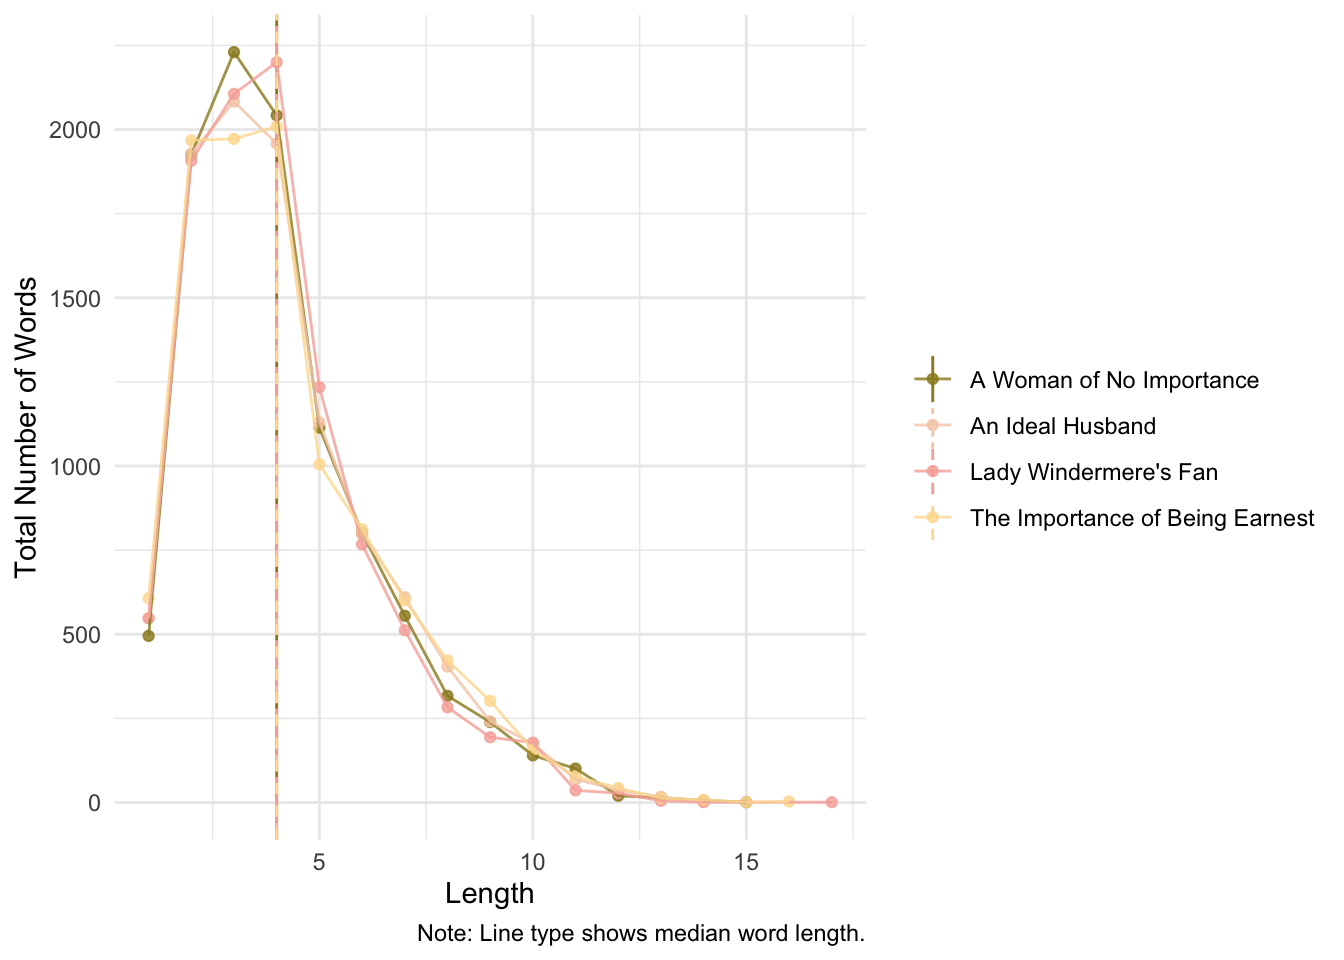
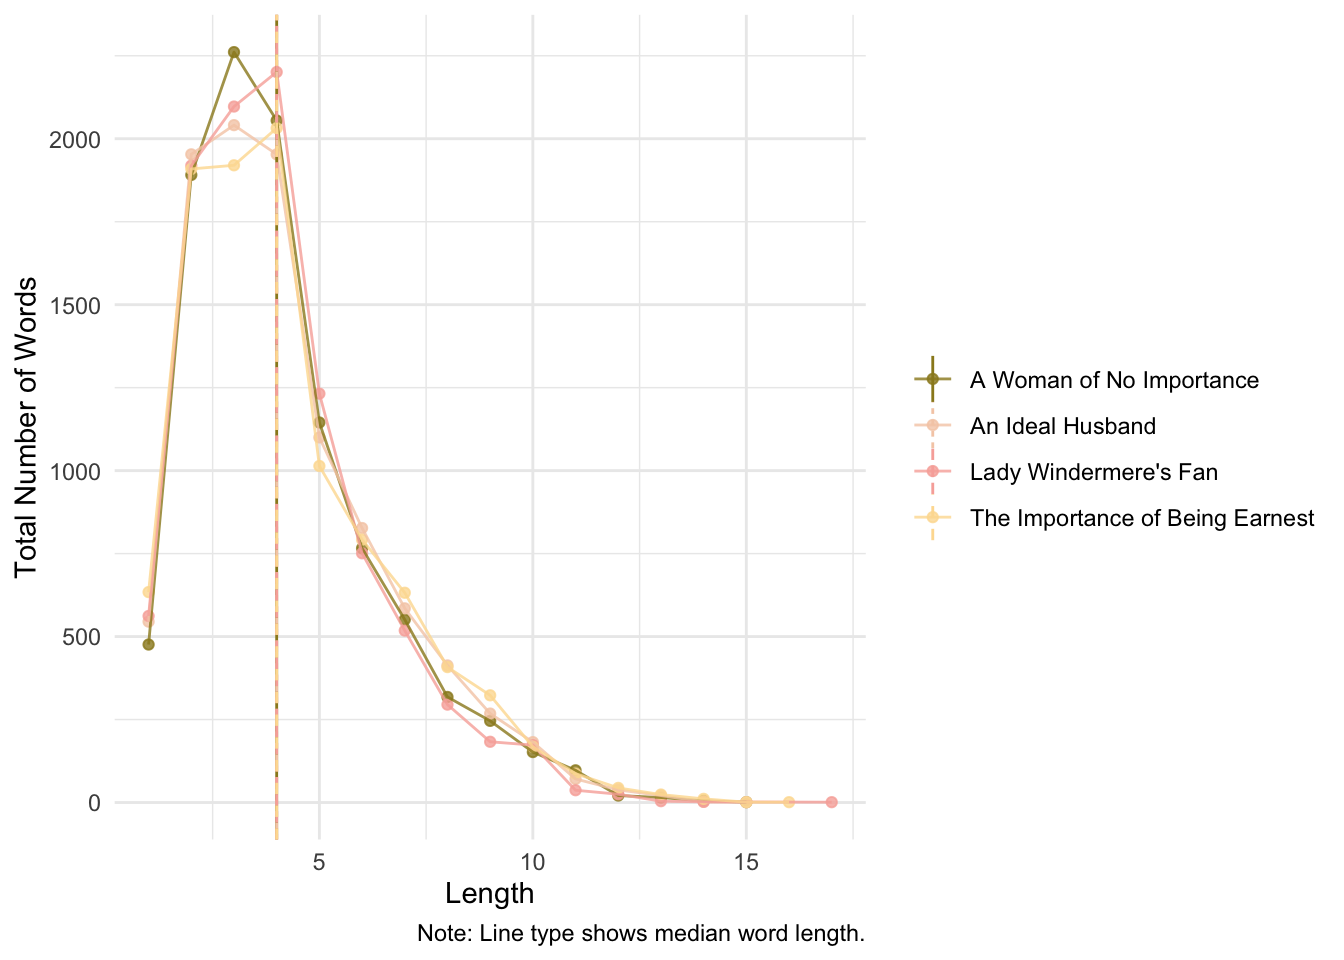
add titles

diff --git a/docs/week-1-a-primer-on-using-text-as-data.html b/docs/week-1-a-primer-on-using-text-as-data.html
@@ -122,6 +122,11 @@ year during his productive,” and that one of these characteristics was the len
 ## 10          885 An Idea… Wilde…                 111 en       "Plays"            
 ## # ℹ 56 more rows
 ## # ℹ 2 more variables: rights &lt;chr&gt;, has_text &lt;lgl&gt;</code></pre>
+</div>
+<div id="word-length-in-wildes-corpus" class="section level2" number="1.3">
+<h2>
+<span class="header-section-number">1.3</span> Word Length in Wilde’s Corpus<a class="anchor" aria-label="anchor" href="#word-length-in-wildes-corpus"><i class="fas fa-link"></i></a>
+</h2>
 <p>That’s a lot of Wilde! Let’s focus on four plays: “The Importance of Being Earnest”, “A Woman of No Importance”, “Lady Windermere’s Fan”, and “An Ideal Husband”. We can download both of these plays using their ID number:</p>
 <div class="sourceCode" id="cb4"><pre class="downlit sourceCode r">
 <code class="sourceCode R"><span><span class="va">wilde</span> <span class="op">&lt;-</span> <span class="fu"><a href="https://docs.ropensci.org/gutenbergr/reference/gutenberg_download.html">gutenberg_download</a></span><span class="op">(</span><span class="fu"><a href="https://rdrr.io/r/base/c.html">c</a></span><span class="op">(</span><span class="fl">790</span>,<span class="fl">844</span>, <span class="fl">854</span>, <span class="fl">885</span><span class="op">)</span>, </span>
@@ -274,11 +279,16 @@ year during his productive,” and that one of these characteristics was the len
 <pre><code>## mutate (grouped): new variable 'word_length' (integer) with 17 unique values and 0% NA</code></pre>
 <pre><code>##                   new variable 'median_word_length' (double) with one unique value and 0% NA</code></pre>
 <pre><code>## group_by: 2 grouping variables (word_length, title)</code></pre>
-<pre><code>## mutate (grouped): new variable 'total_word_length' (integer) with 56 unique values and 0% NA</code></pre>
-<pre><code>## distinct (grouped): removed 39,940 rows (&gt;99%), 60 rows remaining</code></pre>
+<pre><code>## mutate (grouped): new variable 'total_word_length' (integer) with 54 unique values and 0% NA</code></pre>
+<pre><code>## distinct (grouped): removed 39,939 rows (&gt;99%), 61 rows remaining</code></pre>
 <pre><code>## select: dropped 2 variables (gutenberg_id, word)</code></pre>
 <div class="inline-figure"><img src="main_files/figure-html/unnamed-chunk-8-1.png" width="672"></div>
 <p>Would you look at that. Mendenhall was into something: an author has a mark in terms of word length distribution. For Wilde, there is no observable change across time (each play was published in different years). But, what happens when we compare Wilde’s mark with Shakespeare’s? Let’s choose four plays plays (at random) by Shakespeare: A Midsummer Night’s Dream, The Merchant of Venice, Much Ado about Nothing, and The Tempest.</p>
+</div>
+<div id="comparing-shakespeare-and-wilde" class="section level2" number="1.4">
+<h2>
+<span class="header-section-number">1.4</span> Comparing Shakespeare and Wilde<a class="anchor" aria-label="anchor" href="#comparing-shakespeare-and-wilde"><i class="fas fa-link"></i></a>
+</h2>
 <div class="sourceCode" id="cb32"><pre class="downlit sourceCode r">
 <code class="sourceCode R"><span><span class="va">shakes</span> <span class="op">&lt;-</span> <span class="fu"><a href="https://docs.ropensci.org/gutenbergr/reference/gutenberg_download.html">gutenberg_download</a></span><span class="op">(</span><span class="fu"><a href="https://rdrr.io/r/base/c.html">c</a></span><span class="op">(</span><span class="fl">1520</span>,<span class="fl">2242</span>,<span class="fl">2243</span>,<span class="fl">2235</span><span class="op">)</span>,</span>
 <span>                             meta_fields <span class="op">=</span> <span class="fu"><a href="https://rdrr.io/r/base/c.html">c</a></span><span class="op">(</span><span class="st">"title"</span>,<span class="st">"author"</span><span class="op">)</span><span class="op">)</span></span>
@@ -351,8 +361,8 @@ year during his productive,” and that one of these characteristics was the len
 <pre><code>## mutate (grouped): new variable 'word_length' (integer) with 17 unique values and 0% NA</code></pre>
 <pre><code>##                   new variable 'median_word_length' (double) with one unique value and 0% NA</code></pre>
 <pre><code>## group_by: 3 grouping variables (word_length, title, author)</code></pre>
-<pre><code>## mutate (grouped): new variable 'total_word_length' (integer) with 101 unique values and 0% NA</code></pre>
-<pre><code>## distinct (grouped): removed 79,883 rows (&gt;99%), 117 rows remaining</code></pre>
+<pre><code>## mutate (grouped): new variable 'total_word_length' (integer) with 103 unique values and 0% NA</code></pre>
+<pre><code>## distinct (grouped): removed 79,881 rows (&gt;99%), 119 rows remaining</code></pre>
 <pre><code>## select: dropped 2 variables (gutenberg_id, word)</code></pre>
 <div class="inline-figure"><img src="main_files/figure-html/unnamed-chunk-10-1.png" width="672"></div>
 <p>Are there any differences? What can we conclude from the evidence? What are the limitations of this approach? Are there alternative approaches to study what Mendenhall was getting at?</p>
@@ -369,6 +379,8 @@ year during his productive,” and that one of these characteristics was the len
 <li><a class="nav-link" href="#week-1-a-primer-on-using-text-as-data"><span class="header-section-number">1</span> Week 1: A Primer on Using Text as Data</a></li>
 <li><a class="nav-link" href="#setup"><span class="header-section-number">1.1</span> Setup</a></li>
 <li><a class="nav-link" href="#get-data"><span class="header-section-number">1.2</span> Get Data</a></li>
+<li><a class="nav-link" href="#word-length-in-wildes-corpus"><span class="header-section-number">1.3</span> Word Length in Wilde’s Corpus</a></li>
+<li><a class="nav-link" href="#comparing-shakespeare-and-wilde"><span class="header-section-number">1.4</span> Comparing Shakespeare and Wilde</a></li>
 </ul>
 
       <div class="book-extra">
